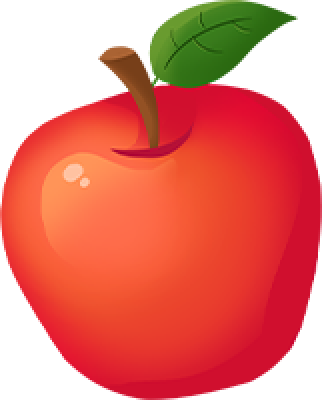
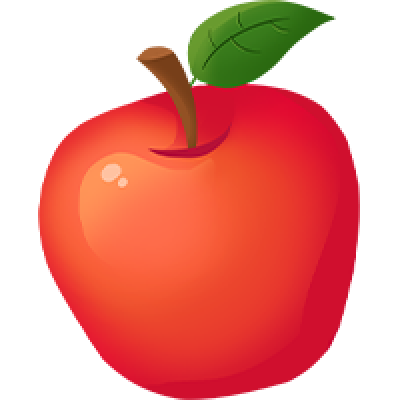
替换苹果

diff --git a/src/views/plantTree/apple.js b/src/views/plantTree/apple.js
@@ -5,24 +5,48 @@ const stars = [
         status: false,
         x: 350,
         y: 0,
-        width: 32,
-        height:40
+        width: 35,
+        height:35
     },
     {
         id: 2,
         status: false,
         x: 320,
         y: 40,
-        width: 32,
-        height:40
+        width: 35,
+        height:35
     },
     {
         id: 3,
         status: false,
-        x: 20,
-        y: 280,
-        width: 20,
-        height: 20,
+        x: 380,
+        y: 38,
+        width: 36,
+        height:36
+    },
+    {
+        id: 4,
+        status: false,
+        x: 290,
+        y: 80,
+        width: 36,
+        height:36
+    },
+    {
+        id: 5,
+        status: false,
+        x: 340,
+        y: 80,
+        width: 36,
+        height:36
+    },
+    {
+        id: 6,
+        status: false,
+        x: 400,
+        y: 80,
+        width: 36,
+        height:36
     },
     
 ]
